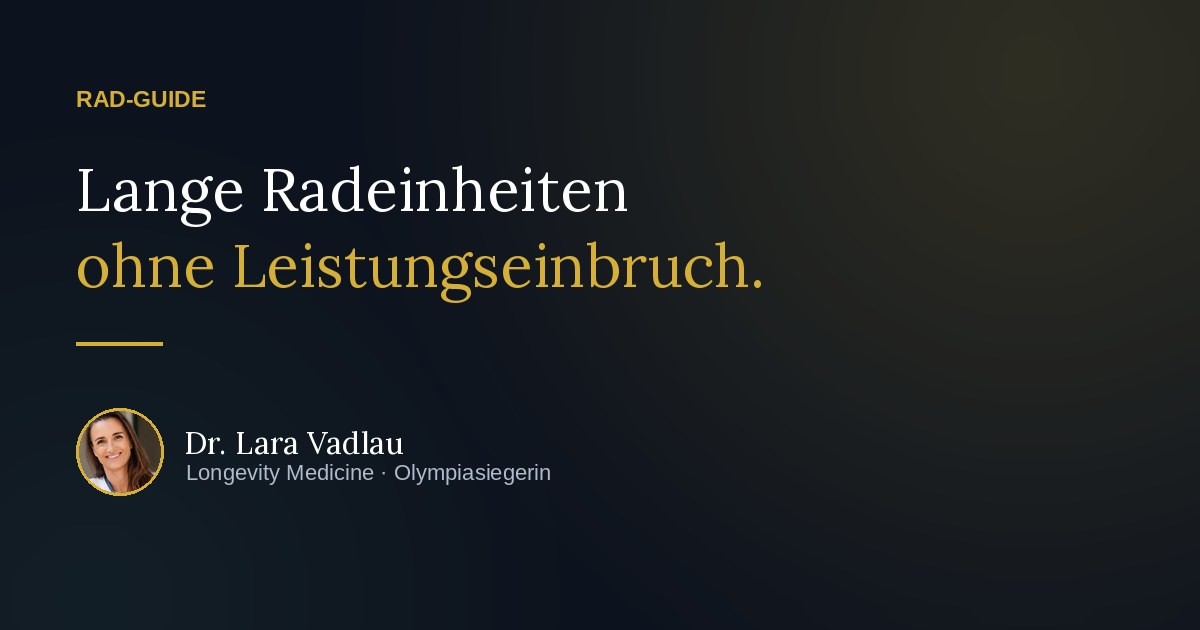
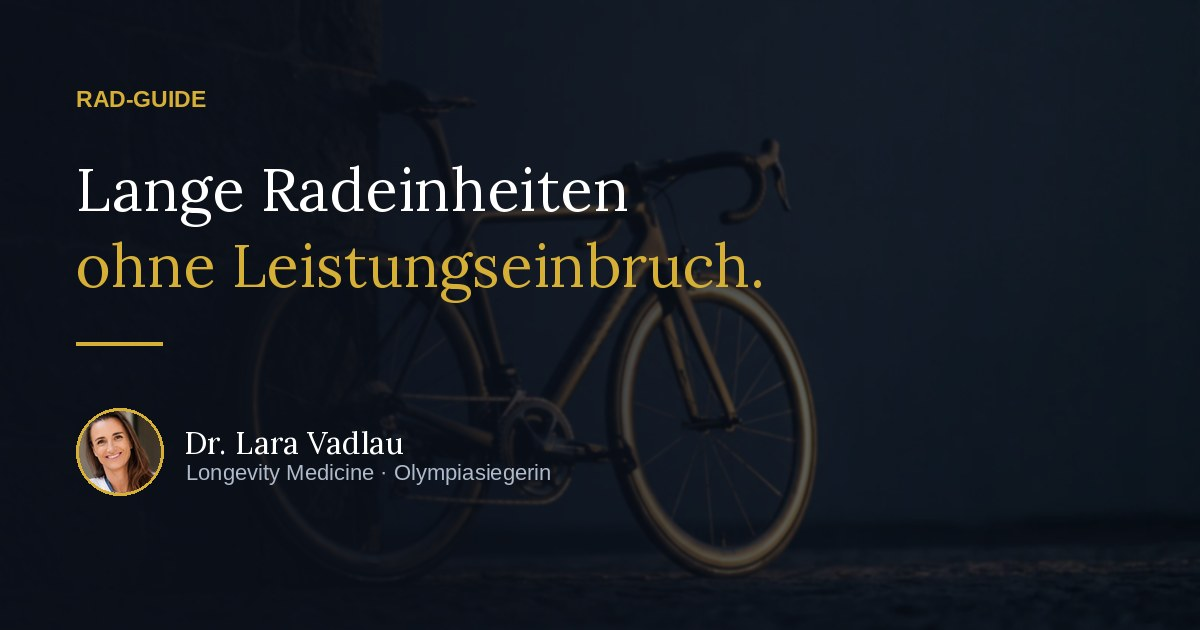
Mitochondrien ergaenzt, Rad-Bilder

diff --git a/index.html b/index.html
@@ -146,6 +146,9 @@ footer .container{display:flex;flex-wrap:wrap;justify-content:space-between;gap:
 .hero-visual{margin-top:40px;border-radius:20px;overflow:hidden;border:1px solid var(--line);position:relative;box-shadow:0 24px 60px rgba(0,0,0,.45)}
 .hero-visual img{width:100%;display:block;aspect-ratio:16/9;object-fit:cover}
 .hero-visual::after{content:'';position:absolute;inset:0;background:linear-gradient(180deg,rgba(13,19,30,.05),rgba(13,19,30,.55));pointer-events:none}
+.band{margin:0;border-radius:18px;overflow:hidden;border:1px solid var(--line);position:relative}
+.band img{width:100%;display:block;aspect-ratio:21/9;object-fit:cover}
+.band::after{content:'';position:absolute;inset:0;background:linear-gradient(180deg,rgba(13,19,30,.10),rgba(13,19,30,.60));pointer-events:none}
 
 @media print{
   @page{margin:16mm}
@@ -219,6 +222,7 @@ footer .container{display:flex;flex-wrap:wrap;justify-content:space-between;gap:
       <button class="tool-btn" onclick="window.print()">Als PDF speichern oder drucken</button>
       <button class="tool-btn" id="shareBtn">Link teilen</button>
     </div>
+    <div class="hero-visual reveal"><img src="hero.webp" alt="Rennrad im warmen Abendlicht" loading="eager"></div>
   </div>
 </section>
 
@@ -286,6 +290,13 @@ footer .container{display:flex;flex-wrap:wrap;justify-content:space-between;gap:
       <span class="l">Merksatz</span>
       Viel Grundlage im lockeren Tempo, eine lange Ausfahrt und ein harter Reiz pro Woche. Mehr braucht die Basis nicht.
     </div>
+  </div>
+</section>
+
+<!-- SECTION IMAGE -->
+<section style="padding:0 0 8px;border-top:none">
+  <div class="container">
+    <div class="band reveal"><img src="sec.webp" alt="Trinkflaschen und Verpflegung fürs Rad" loading="lazy"></div>
   </div>
 </section>
 
@@ -383,12 +394,12 @@ footer .container{display:flex;flex-wrap:wrap;justify-content:space-between;gap:
       <p>Alle Guides von Dr. Lara Vadlau, jederzeit nachlesbar.</p>
     </div>
     <div class="more reveal">
+      <a href="https://lara-mitochondrien.vercel.app"><span class="t">Mitochondrien</span><span class="d">Zellkraftwerke unter Strom</span><span class="go">Ansehen &rarr;</span></a>
       <a href="https://lara-muskelaufbau.vercel.app"><span class="t">Muskelaufbau</span><span class="d">die 4 Hebel mit Evidenz</span><span class="go">Ansehen &rarr;</span></a>
       <a href="https://lara-fasten.vercel.app"><span class="t">Fasten</span><span class="d">Autophagie &amp; Scheinfasten</span><span class="go">Ansehen &rarr;</span></a>
       <a href="https://lara-blutwerte.vercel.app"><span class="t">Blutwerte</span><span class="d">Optimalwerte-Checkliste</span><span class="go">Ansehen &rarr;</span></a>
       <a href="https://lara-supplements.vercel.app"><span class="t">Supplements</span><span class="d">was wirklich wirkt</span><span class="go">Ansehen &rarr;</span></a>
       <a href="https://lara-nierenwerte.vercel.app"><span class="t">Nierenwerte</span><span class="d">welche wirklich zählen</span><span class="go">Ansehen &rarr;</span></a>
-      <a href="https://lara-inhaltsstoffe.vercel.app"><span class="t">Inhaltsstoffe</span><span class="d">worauf du achten solltest</span><span class="go">Ansehen &rarr;</span></a>
     </div>
     <p style="margin-top:22px;color:var(--muted-2);font-size:13.5px">Alle Guides auf einen Blick: <a href="https://lara-wissen.vercel.app">lara-wissen.vercel.app</a></p>
   </div>
